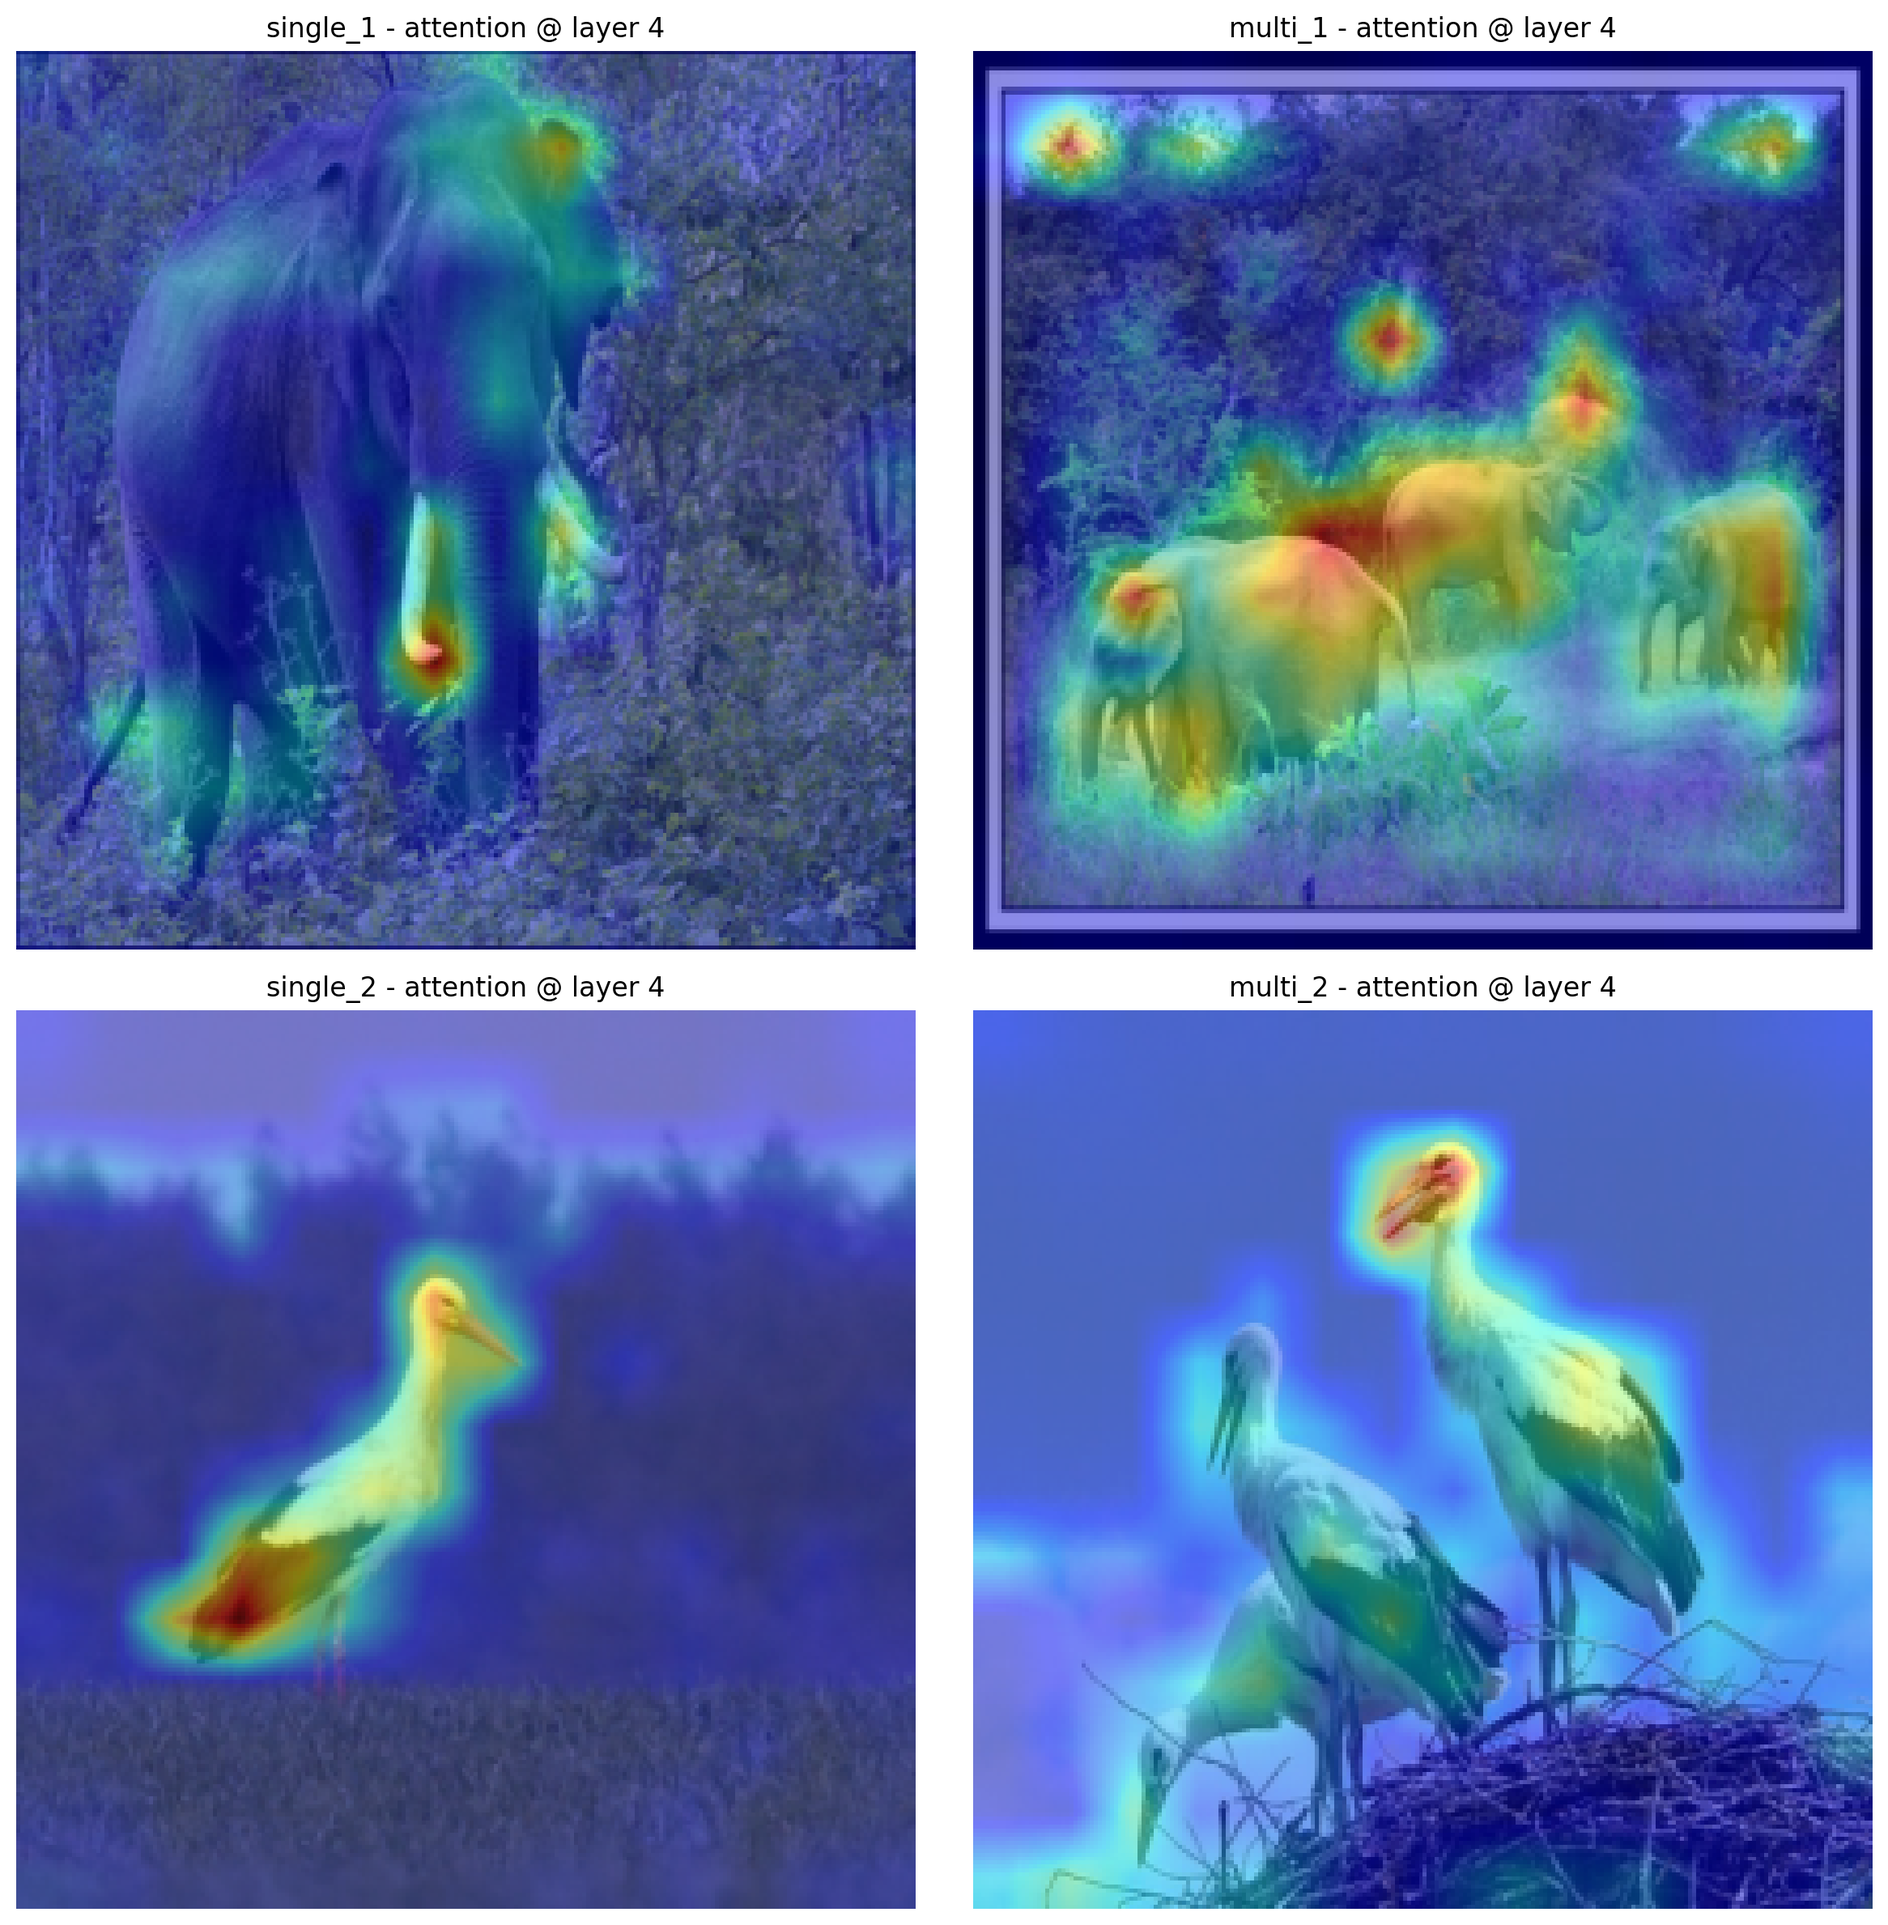
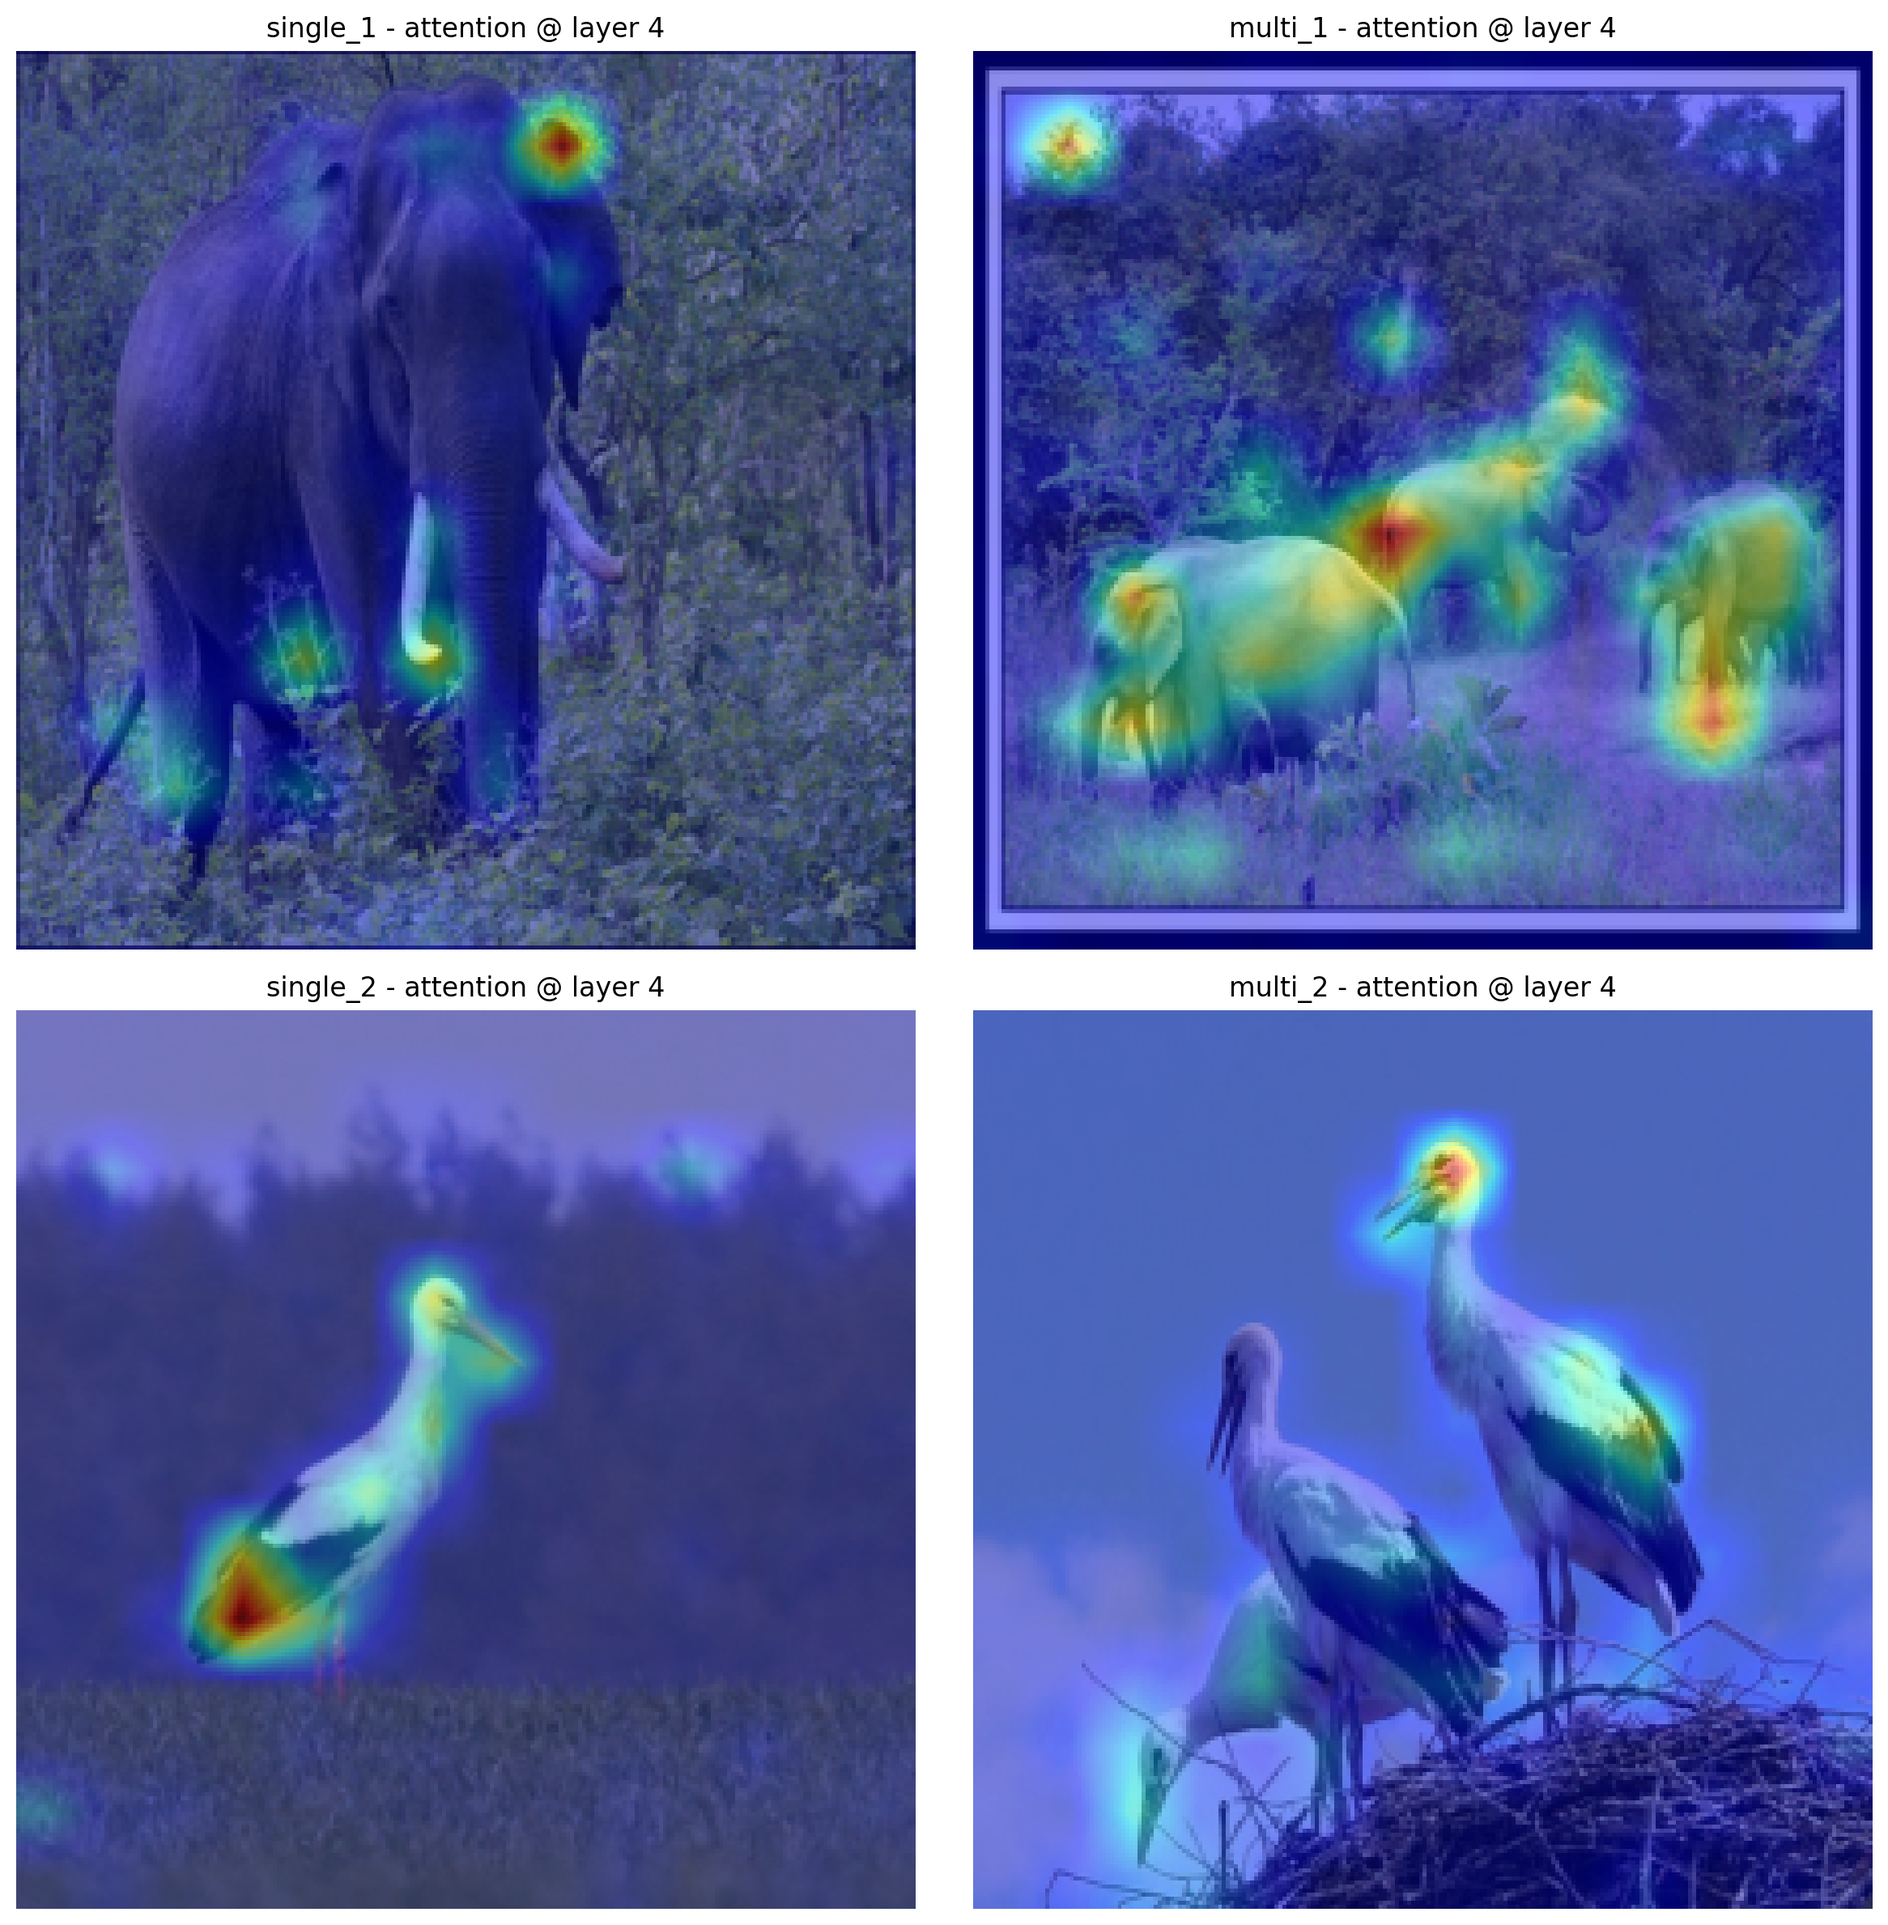
some sampling toy examples; fix eval/val pipeline

diff --git a/src/toy_investigate_mismatch.py b/src/toy_investigate_mismatch.py
@@ -7,28 +7,33 @@ np.set_printoptions(suppress=True, precision=4)
 
 
 
-raw_logits_arr = np.array([[-1.119, -1.1155, -1.114,  -1.1137, -1.112,  -1.1103, -1.1119, -1.1114, -1.1099,
-  -1.1086, -1.1075, -1.1062, -1.107,  -1.1058, -1.113,  -1.114,  -1.114,  -1.1136,
-  -1.1116, -1.1103, -1.1093, -1.1093, -1.1093, -1.1113, -1.1101, -1.1115, -1.1101,
-  -1.1068, -1.1168, -1.1147, -1.1143, -1.1129, -1.114,  -1.1126, -1.0409, -0.6471,
-  -1.1115, -1.1129, -1.1145, -1.114,  -1.1142, -1.1146, -1.1197, -1.1178, -1.1178,
-  -1.1178, -1.1173, -1.1158, -0.9146, -0.9849, -1.1164, -1.1177, -1.1196, -1.1191,
-  -1.1185, -1.119,  -1.121,  -1.122,  -1.121,  -1.1207, -1.1114, -1.1178, -1.1188,
-  -0.8964, -1.0352, -1.1076, -1.1213, -1.1215, -1.1212, -1.1207, -1.12,   -1.1233,
-  -1.1226, -1.1322, -1.049,  -1.1203, -1.118,  -1.0382, -0.9339, -0.8505, -1.1367,
-  -1.1211, -1.1219, -1.1204, -1.1214, -1.1222, -1.1229, -1.1486, -1.0441, -1.0982,
-  -1.1167, -1.127,  -1.025,  -0.9819, -1.0762, -1.1214, -1.1221, -1.1215, -1.1194,
-  -1.1188, -1.1183, -1.1131, -1.04,   -1.0064, -1.1202, -1.1043, -1.0058, -1.0492,
-  -1.0406, -1.1096, -1.1217, -1.0954, -1.1089, -1.107,  -1.1111, -1.1102, -1.1377,
-  -1.0541, -1.1194, -1.1171, -1.1426, -1.1327, -1.0508, -1.1212, -1.114,  -1.0998,
-  -1.1081, -1.1147, -1.1091, -1.1094, -1.0072, -1.1417, -0.9819, -1.1236, -1.1447,
-  -1.1335, -1.1401, -1.1198, -1.0985, -1.0999, -1.11,   -1.1436, -1.1362, -1.1161,
-  -0.9901, -1.1304, -1.0916, -1.0607, -1.1328, -1.0307, -1.1193, -1.1204, -1.1166,
-  -1.1091, -1.1102, -1.1175, -1.1551, -1.1418, -1.0915, -1.1391, -1.1358, -1.1249,
-  -1.1149, -1.1283, -1.1022, -1.1133, -1.1162, -1.0785, -1.1156, -1.1163, -1.1096,
-  -1.1516, -1.0602, -1.1175, -1.1354, -1.1092, -1.1224, -1.1176, -1.1183, -1.1191,
-  -1.1189, -1.1226, -1.1137, -1.1197, -1.1433, -1.1314, -1.1493, -1.0639, -1.1435,
-  -1.085,  -1.0688, -1.1229, -1.1221, -1.1168, -1.1208, -1.1365]])
+# raw_logits_arr = np.array([[-1.119, -1.1155, -1.114,  -1.1137, -1.112,  -1.1103, -1.1119, -1.1114, -1.1099,
+#   -1.1086, -1.1075, -1.1062, -1.107,  -1.1058, -1.113,  -1.114,  -1.114,  -1.1136,
+#   -1.1116, -1.1103, -1.1093, -1.1093, -1.1093, -1.1113, -1.1101, -1.1115, -1.1101,
+#   -1.1068, -1.1168, -1.1147, -1.1143, -1.1129, -1.114,  -1.1126, -1.0409, -0.6471,
+#   -1.1115, -1.1129, -1.1145, -1.114,  -1.1142, -1.1146, -1.1197, -1.1178, -1.1178,
+#   -1.1178, -1.1173, -1.1158, -0.9146, -0.9849, -1.1164, -1.1177, -1.1196, -1.1191,
+#   -1.1185, -1.119,  -1.121,  -1.122,  -1.121,  -1.1207, -1.1114, -1.1178, -1.1188,
+#   -0.8964, -1.0352, -1.1076, -1.1213, -1.1215, -1.1212, -1.1207, -1.12,   -1.1233,
+#   -1.1226, -1.1322, -1.049,  -1.1203, -1.118,  -1.0382, -0.9339, -0.8505, -1.1367,
+#   -1.1211, -1.1219, -1.1204, -1.1214, -1.1222, -1.1229, -1.1486, -1.0441, -1.0982,
+#   -1.1167, -1.127,  -1.025,  -0.9819, -1.0762, -1.1214, -1.1221, -1.1215, -1.1194,
+#   -1.1188, -1.1183, -1.1131, -1.04,   -1.0064, -1.1202, -1.1043, -1.0058, -1.0492,
+#   -1.0406, -1.1096, -1.1217, -1.0954, -1.1089, -1.107,  -1.1111, -1.1102, -1.1377,
+#   -1.0541, -1.1194, -1.1171, -1.1426, -1.1327, -1.0508, -1.1212, -1.114,  -1.0998,
+#   -1.1081, -1.1147, -1.1091, -1.1094, -1.0072, -1.1417, -0.9819, -1.1236, -1.1447,
+#   -1.1335, -1.1401, -1.1198, -1.0985, -1.0999, -1.11,   -1.1436, -1.1362, -1.1161,
+#   -0.9901, -1.1304, -1.0916, -1.0607, -1.1328, -1.0307, -1.1193, -1.1204, -1.1166,
+#   -1.1091, -1.1102, -1.1175, -1.1551, -1.1418, -1.0915, -1.1391, -1.1358, -1.1249,
+#   -1.1149, -1.1283, -1.1022, -1.1133, -1.1162, -1.0785, -1.1156, -1.1163, -1.1096,
+#   -1.1516, -1.0602, -1.1175, -1.1354, -1.1092, -1.1224, -1.1176, -1.1183, -1.1191,
+#   -1.1189, -1.1226, -1.1137, -1.1197, -1.1433, -1.1314, -1.1493, -1.0639, -1.1435,
+#   -1.085,  -1.0688, -1.1229, -1.1221, -1.1168, -1.1208, -1.1365]])
+
+raw_logits_arr = np.array([[-8, -7, -6, -5, -4, -3, -2.5, -2, -1.5, -1, -0.5, 0, 0.5, 1, 1.5, 2, 2.5, 3, 3.5, 4, 4.5, 5]])
+
+
+TOY = (not raw_logits_arr.shape[0] == 196)
 
 raw_logits = torch.tensor(raw_logits_arr)
 boundary_probs = torch.sigmoid(raw_logits)
@@ -52,7 +57,10 @@ plt.colorbar(label='Boundary Probability')
 plt.title('Boundary Probabilities Heatmap (before sampling)')
 plt.xlabel('Token Index')
 plt.yticks([])
-plt.savefig('/users/PAS2912/yusenpeng/Fast-CLIP/src/heatmap_before_sampling.png')
+if TOY:
+  plt.savefig('/users/PAS2912/yusenpeng/Fast-CLIP/src/TOY_heatmap_before_sampling.png')
+else:
+  plt.savefig('/users/PAS2912/yusenpeng/Fast-CLIP/src/heatmap_before_sampling.png')
 plt.close()
 
 plt.figure(figsize=(10, 3))
@@ -61,6 +69,9 @@ plt.colorbar(label='Boundary Probability')
 plt.title('Boundary Probabilities Heatmap (after sampling)')
 plt.xlabel('Token Index')
 plt.yticks([])
-plt.savefig('/users/PAS2912/yusenpeng/Fast-CLIP/src/heatmap_after_sampling.png')
+if TOY:
+  plt.savefig('/users/PAS2912/yusenpeng/Fast-CLIP/src/TOY_heatmap_after_sampling.png')
+else:
+  plt.savefig('/users/PAS2912/yusenpeng/Fast-CLIP/src/heatmap_after_sampling.png')
 plt.close()
 

diff --git a/src/task1_newcodebase.py b/src/task1_newcodebase.py
@@ -60,8 +60,11 @@ class VisionClassifier(nn.Module):
         elif isinstance(backbone, SingleAdaptedSwin):
             self.fc = nn.Linear(backbone.num_classes, num_classes)
 
-    def forward(self, x):
-        if isinstance(self.backbone, DTPViT) or isinstance(self.backbone, SingleAdaptedFixed) or isinstance(self.backbone, Qwen2VLDRIP):
+    def forward(self, x, inference: bool = False):
+        if isinstance(self.backbone, DTPViT):
+            outs, boundary_loss, _, _  = self.backbone(x, return_loss=True, inference=inference)
+            return self.fc(outs), boundary_loss
+        elif isinstance(self.backbone, SingleAdaptedFixed) or isinstance(self.backbone, Qwen2VLDRIP):
             outs, boundary_loss, _, _  = self.backbone(x, return_loss=True)
             return self.fc(outs), boundary_loss
         else:
@@ -923,7 +926,7 @@ def train_one_epoch(model, is_dtp: bool, criterion, optimizer, data_loader, devi
         image, target = image.to(device), target.to(device)
         with torch.amp.autocast('cuda', enabled=scaler is not None):
             if is_dtp:
-                output, boundary_loss = model(image)
+                output, boundary_loss = model(image, inference=False)
                 cls_loss = criterion(output, target)
                 
                 # add boundary loss for back propagation
@@ -980,7 +983,7 @@ def evaluate(model, is_dtp: bool, criterion, data_loader, device, print_freq=100
             image = image.to(device, non_blocking=True)
             target = target.to(device, non_blocking=True)
             if is_dtp:
-                output, boundary_loss = model(image)
+                output, boundary_loss = model(image, inference=True)
                 cls_loss = criterion(output, target)
                 loss = cls_loss + boundary_loss
             else:
@@ -1170,7 +1173,10 @@ def main(args):
     print("Creating model")
     is_dtp = False
     MODE = args.MODE
-    COMPRESSION_RATE = 0.1
+    COMPRESSION_RATE = args.RATE
+    TEMP = args.TEMP
+
+
     width=768
     mlp_ratio=4.0
 
@@ -1184,11 +1190,12 @@ def main(args):
             compression_rate=COMPRESSION_RATE,
             heads=width // 64,
             mlp_ratio=mlp_ratio,
-            temp=0.5,
+            temp=TEMP,
             output_dim=512,
             pos_embed_type='sin_cos_2d', # 'learnable' or 'sin_cos_2d'
             pool_type='avg'
         )
+        print(f"😛😛😛temperature is set to: {TEMP}😛😛😛", flush=True)
         backbone = empty_backbone
         model = VisionClassifier(backbone, num_classes).to(device)
         is_dtp = True # NOTE: important!
@@ -1203,7 +1210,7 @@ def main(args):
             compression_rate=COMPRESSION_RATE,
             heads=width // 64,
             mlp_ratio=mlp_ratio,
-            temp=0.5,
+            temp=TEMP,
             output_dim=512,
             pos_embed_type='sin_cos_2d', # 'learnable' or 'sin_cos_2d'
             pool_type='avg'
@@ -1222,7 +1229,7 @@ def main(args):
             compression_rate=COMPRESSION_RATE,
             heads=width // 64,
             mlp_ratio=mlp_ratio,
-            temp=0.5,
+            temp=TEMP,
             output_dim=512,
             pos_embed_type='sin_cos_2d', # 'learnable' or 'sin_cos_2d'
             pool_type='avg'
@@ -1625,6 +1632,8 @@ def get_args_parser(add_help=True):
     # NOTE: pick your model!
     # "DRIP" or "fixed_pooling" or "ViT" or "XL" or "ViT-RP"
     parser.add_argument("--MODE", type=str, help="which model to use buddy")
+    parser.add_argument("--RATE", type=float, help="compression rate for DRIP and fixed pooling models")
+    parser.add_argument("--TEMP", type=float, help="temperature for DRIP models; -1 for no sampling")
     return parser
 
 

diff --git a/src/open_clip_local/BP.py b/src/open_clip_local/BP.py
@@ -127,17 +127,17 @@ class BoundaryPredictor(nn.Module):
             hard_boundaries - soft_boundaries.detach() + soft_boundaries
         )
 
-        print("================================")
-        np.set_printoptions(suppress=True, precision=4)
-        print(f"raw logits:")
-        print(boundary_logits.cpu().numpy())
-        print(f"probabilities after sigmoid:")
-        print(boundary_probs.cpu().numpy())
-        print(f"probabilities after sampling:")
-        print(soft_boundaries.cpu().numpy())
-        print(f"hard boundaries after thresholding:")
-        print(hard_boundaries.cpu().numpy())
-        print("================================")
+        # print("================================")
+        # np.set_printoptions(suppress=True, precision=4)
+        # print(f"raw logits:")
+        # print(boundary_logits.cpu().numpy())
+        # print(f"probabilities after sigmoid:")
+        # print(boundary_probs.cpu().numpy())
+        # print(f"probabilities after sampling:")
+        # print(soft_boundaries.cpu().numpy())
+        # print(f"hard boundaries after thresholding:")
+        # print(hard_boundaries.cpu().numpy())
+        # print("================================")
 
         return soft_boundaries, hard_boundaries
 

diff --git a/src/imagenet_ckpt_vit.py b/src/imagenet_ckpt_vit.py
@@ -140,7 +140,6 @@ def get_dtpvit_hard_boundaries(model: DTPViT, img_3chw: torch.Tensor):
     
     _, hard_boundaries = model.boundary_predictor(x_transposed)   # [B, L]
 
-    hard_boundaries = hard_boundaries
     assert hard_boundaries.shape[1] == L_patch, \
         f"Expected {L_patch} patch tokens after removing CLS, got {hard_boundaries.shape[1]}"
     return hard_boundaries[0].detach(), gh, gw
@@ -777,7 +776,8 @@ def main():
     #ckpt_path = "/fs/scratch/PAS2836/yusenpeng_checkpoint/imagenet_bidirectional_DRIP_100epoch/model_99.pth"
     #ckpt_path = "/fs/scratch/PAS2836/yusenpeng_checkpoint/imagenet_bidirectional_DRIP_100epoch/model_49.pth"
 
-    ckpt_path = "/fs/scratch/PAS2836/yusenpeng_checkpoint/imagenet_DRIP_fixed_CLS_vanilla_50epoch/model_49.pth"
+    #ckpt_path = "/fs/scratch/PAS2836/yusenpeng_checkpoint/imagenet_DRIP_fixed_CLS_vanilla_50epoch/model_49.pth"
+    ckpt_path = "/fs/scratch/PAS2836/yusenpeng_checkpoint/imagenet_DRIP_fixed_CLS_vanilla_50epoch/model_9.pth"
 
     
     #ckpt_path = "/fs/scratch/PAS2836/yusenpeng_checkpoint/imagenet_causal_DRIP/checkpoint.pth"

diff --git a/src/open_clip_local/DTP_ViT.py b/src/open_clip_local/DTP_ViT.py
@@ -305,7 +305,7 @@ class DTPViT(nn.Module):
         else:
             patch_transposed = patch_tokens.transpose(0, 1) # [B, L, D] -> [L, B, D]
             if not inference:
-                # hard boundaries: [B, L]
+                # hard boundaries: [B, L] - sampling during training
                 _, hard_boundaries = self.boundary_predictor(patch_transposed) # input is [L, B, D]
             else:
                 # during inference, apply thresholding to get hard boundaries
